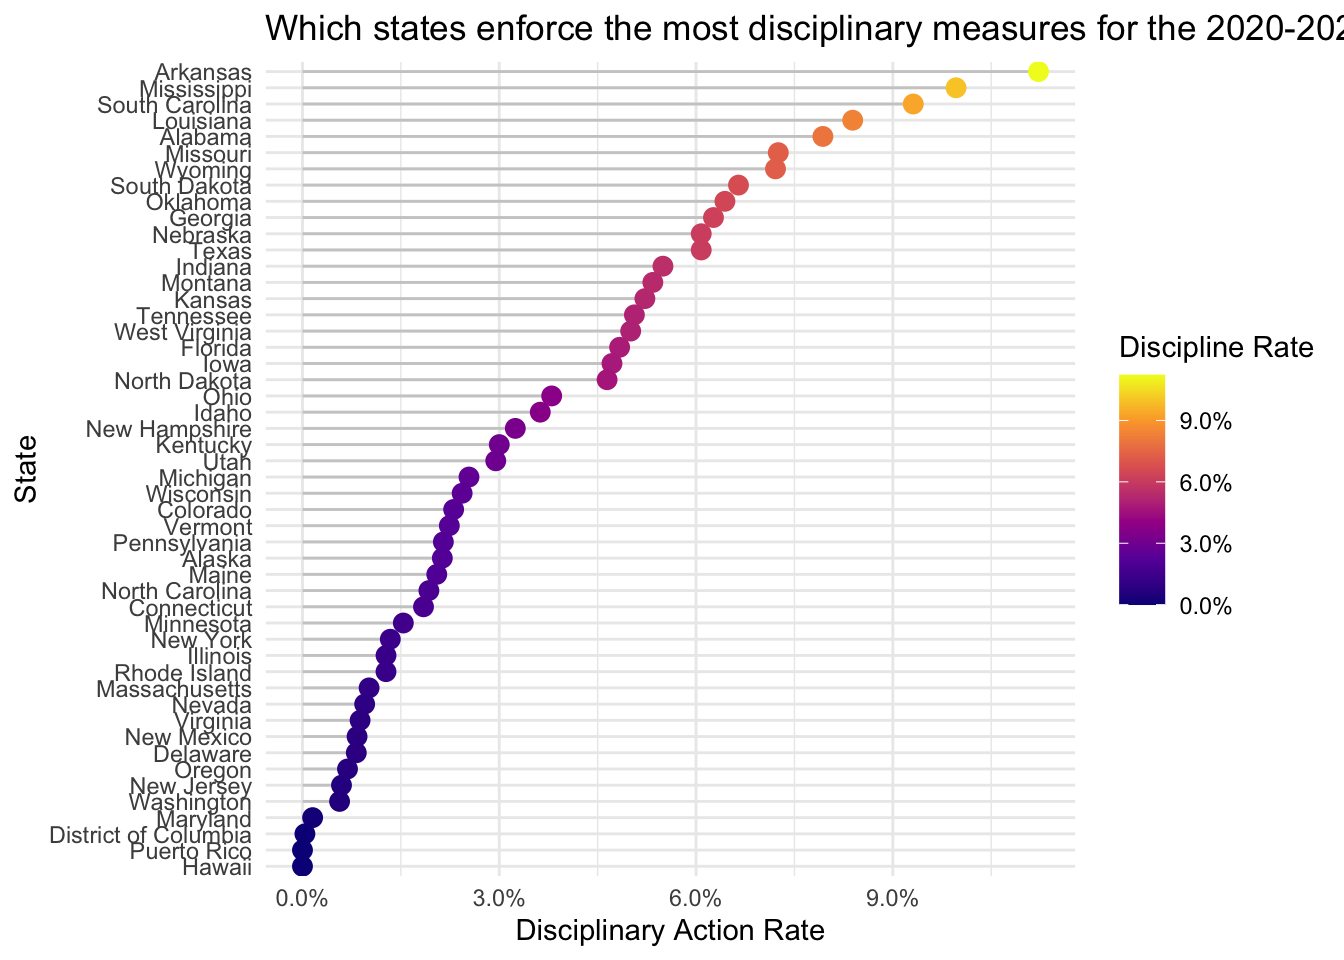
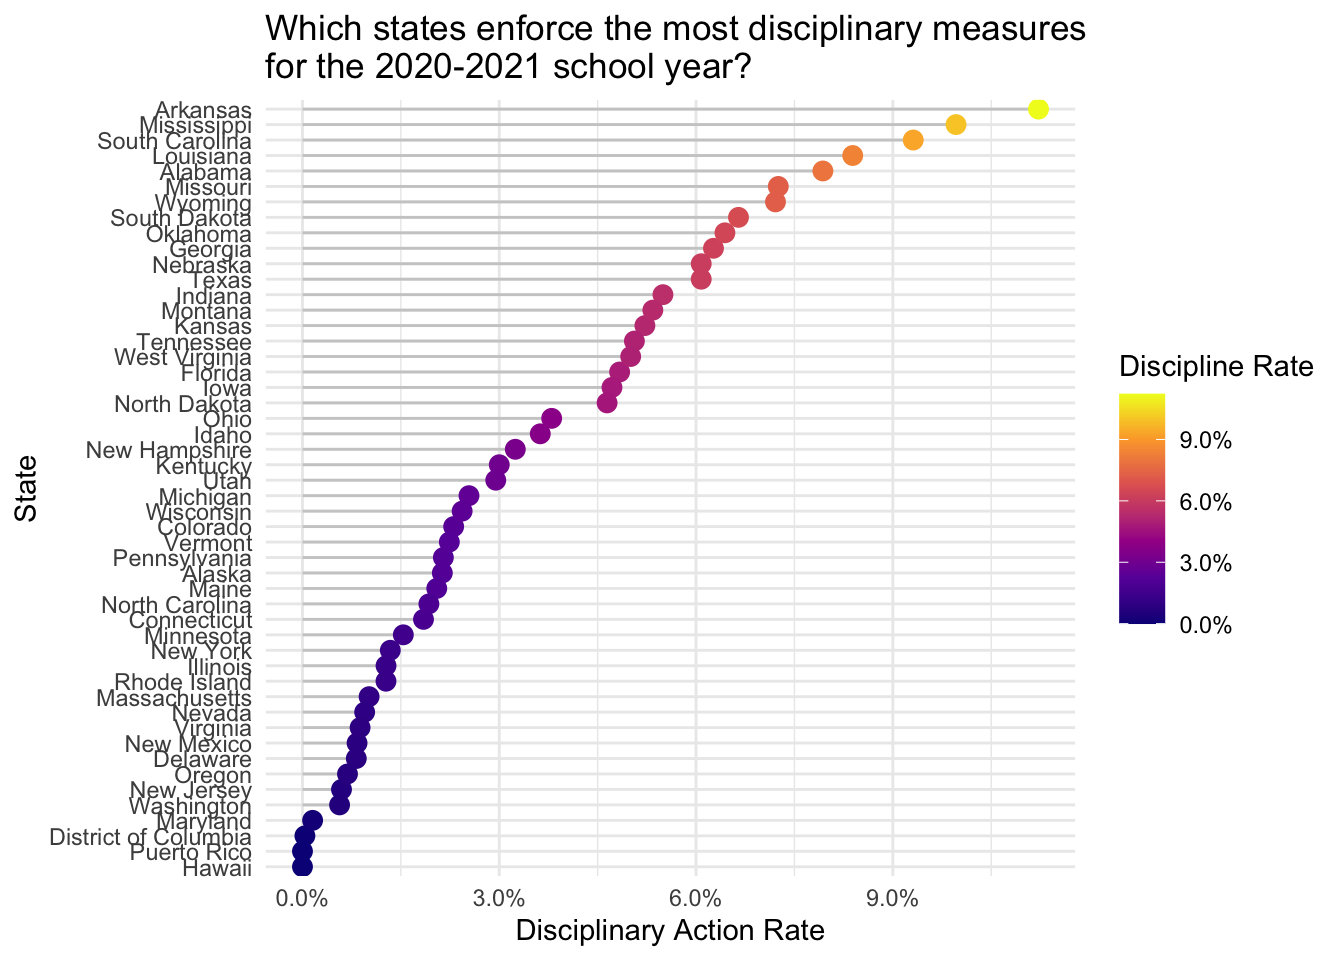
fixing typos

Changed region(s): [[0.0312, 0.0312, 0.9688, 0.9062], [0.8125, 0.0, 1.0, 0.0625], [0.0, 0.4375, 0.0312, 0.5625]]

diff --git a/docs/results.html b/docs/results.html
@@ -202,7 +202,7 @@ pre > code.sourceCode > span > a:first-child::before { text-decoration: underlin
 </header>
 
 
-<p>In order to contextualize standard disciplinary rates across the country and spot outlier states, the data was converted from raw discipline counts into an overall proportion: total disciplinary actions divided by total enrollment. The analysis below is standardized in this way so that states would be directly comparable. For example this would help mitigate for a case like Texas which has more disciplinary actions than a small state like Vermont, simply because it has more students. If the data was not standardized in this way the overall interpretation would have been heavily skewed or be an inaccurate representation.</p>
+<p>In order to contextualize standard disciplinary rates across the country and spot outlier states, the data was converted from raw discipline counts into an overall proportion: total disciplinary actions divided by total enrollment. The analysis below is standardized in this way so that states would be directly comparable. For example this would account for states like Texas which has more disciplinary actions than a small state like Vermont, simply because it has more students. If the data was not standardized in this way the overall interpretation would have been heavily skewed or be an inaccurate representation.</p>
 <div class="cell">
 <details class="code-fold">
 <summary>Code</summary>
@@ -491,7 +491,7 @@ pre > code.sourceCode > span > a:first-child::before { text-decoration: underlin
 </div>
 </div>
 </div>
-<p>The histogram above plots the distribution of these discipline rates by density of states that fall in this range. This distribution of disciplinary rates is right skewed; most states cluster at a relatively low disciplinary rate, while a small number of states display higher rates. Understanding the distribution in this way gives a natural way to define and study outliers. States that sit in the right tail, well above where most of the density is concentrated, are those with unusually high levels of disciplinary action relative to their student population. Below we will explore which states which make up the outliers shown by this histogram.</p>
+<p>The histogram above plots the distribution of these discipline rates by density of states that fall in this range. This distribution of disciplinary rates is right skewed; most states cluster at a relatively low disciplinary rate, while a small number of states display higher rates. Understanding the distribution in this way gives a natural way to define and study outliers. States that sit in the right tail, well above where most of the density is concentrated, are those with unusually high levels of disciplinary action relative to their student population. Below we will explore which states make up the outliers shown by this histogram.</p>
 <div class="cell">
 <details class="code-fold">
 <summary>Code</summary>
@@ -531,7 +531,7 @@ pre > code.sourceCode > span > a:first-child::before { text-decoration: underlin
 <span id="cb6-34"><a href="#cb6-34" aria-hidden="true" tabindex="-1"></a>  ) <span class="sc">+</span></span>
 <span id="cb6-35"><a href="#cb6-35" aria-hidden="true" tabindex="-1"></a>  <span class="fu">labs</span>(</span>
 <span id="cb6-36"><a href="#cb6-36" aria-hidden="true" tabindex="-1"></a>    <span class="at">x =</span> <span class="st">"State"</span>,</span>
-<span id="cb6-37"><a href="#cb6-37" aria-hidden="true" tabindex="-1"></a>    <span class="at">title =</span> <span class="st">"Which states enforce the most disciplinary measures for the 2020-2021 school year?"</span></span>
+<span id="cb6-37"><a href="#cb6-37" aria-hidden="true" tabindex="-1"></a>    <span class="at">title =</span> <span class="st">"Which states enforce the most disciplinary measures </span><span class="sc">\n</span><span class="st">for the 2020-2021 school year?"</span></span>
 <span id="cb6-38"><a href="#cb6-38" aria-hidden="true" tabindex="-1"></a>  ) <span class="sc">+</span></span>
 <span id="cb6-39"><a href="#cb6-39" aria-hidden="true" tabindex="-1"></a>  <span class="fu">theme_minimal</span>() <span class="sc">+</span></span>
 <span id="cb6-40"><a href="#cb6-40" aria-hidden="true" tabindex="-1"></a>  <span class="fu">theme</span>(</span>
@@ -715,7 +715,7 @@ pre > code.sourceCode > span > a:first-child::before { text-decoration: underlin
 <span id="cb8-91"><a href="#cb8-91" aria-hidden="true" tabindex="-1"></a>    <span class="at">name =</span> <span class="st">"Democrat/Republican Vote Share"</span></span>
 <span id="cb8-92"><a href="#cb8-92" aria-hidden="true" tabindex="-1"></a>  ) <span class="sc">+</span></span>
 <span id="cb8-93"><a href="#cb8-93" aria-hidden="true" tabindex="-1"></a>  <span class="fu">labs</span>(</span>
-<span id="cb8-94"><a href="#cb8-94" aria-hidden="true" tabindex="-1"></a>    <span class="at">title =</span> <span class="st">"2020 Presidential Election</span><span class="sc">\n</span><span class="st"> Popular Vote over Total Vote"</span>,</span>
+<span id="cb8-94"><a href="#cb8-94" aria-hidden="true" tabindex="-1"></a>    <span class="at">title =</span> <span class="st">"2020 Presidential Election</span><span class="sc">\n</span><span class="st">Popular Vote/Total Vote"</span>,</span>
 <span id="cb8-95"><a href="#cb8-95" aria-hidden="true" tabindex="-1"></a>    <span class="at">x =</span> <span class="cn">NULL</span>,</span>
 <span id="cb8-96"><a href="#cb8-96" aria-hidden="true" tabindex="-1"></a>    <span class="at">y =</span> <span class="cn">NULL</span></span>
 <span id="cb8-97"><a href="#cb8-97" aria-hidden="true" tabindex="-1"></a>  ) <span class="sc">+</span></span>
@@ -795,7 +795,7 @@ pre > code.sourceCode > span > a:first-child::before { text-decoration: underlin
 <span id="cb9-55"><a href="#cb9-55" aria-hidden="true" tabindex="-1"></a>    <span class="at">name   =</span> <span class="st">"2020 State Winner"</span></span>
 <span id="cb9-56"><a href="#cb9-56" aria-hidden="true" tabindex="-1"></a>  ) <span class="sc">+</span></span>
 <span id="cb9-57"><a href="#cb9-57" aria-hidden="true" tabindex="-1"></a>  <span class="fu">labs</span>(</span>
-<span id="cb9-58"><a href="#cb9-58" aria-hidden="true" tabindex="-1"></a>    <span class="at">title =</span> <span class="st">"Disciplinary Action Rate vs 2020 Political Landscape"</span>,</span>
+<span id="cb9-58"><a href="#cb9-58" aria-hidden="true" tabindex="-1"></a>    <span class="at">title =</span> <span class="st">"2020-2021 Disciplinary Action Rate vs 2020 Political Landscape"</span>,</span>
 <span id="cb9-59"><a href="#cb9-59" aria-hidden="true" tabindex="-1"></a>    <span class="at">x =</span> <span class="st">"Disciplinary action rate (actions per student)"</span>,</span>
 <span id="cb9-60"><a href="#cb9-60" aria-hidden="true" tabindex="-1"></a>    <span class="at">y =</span> <span class="st">"Vote Share (Republican/Democrat)"</span></span>
 <span id="cb9-61"><a href="#cb9-61" aria-hidden="true" tabindex="-1"></a>  ) <span class="sc">+</span></span>

diff --git a/docs/data.html b/docs/data.html
@@ -349,7 +349,7 @@ pre > code.sourceCode > span > a:first-child::before { text-decoration: underlin
 </div>
 </div>
 </div>
-<p>This widespread absence of California’s data is evident in choropleth maps throughout the results section. The state’s incomplete data highlights an important limitation of the CRDC dataset; inconsistent or incomplete reporting, which in turn affects nationwide comparisons. Texas is also missing quite a bit of data however which is notable.</p>
+<p>This widespread absence of California’s data is evident in choropleth maps throughout the results section. The state’s incomplete data highlights an important limitation of the CRDC dataset; inconsistent or incomplete reporting, which in turn affects nationwide comparisons.</p>
 <div class="cell">
 <details class="code-fold">
 <summary>Code</summary>
